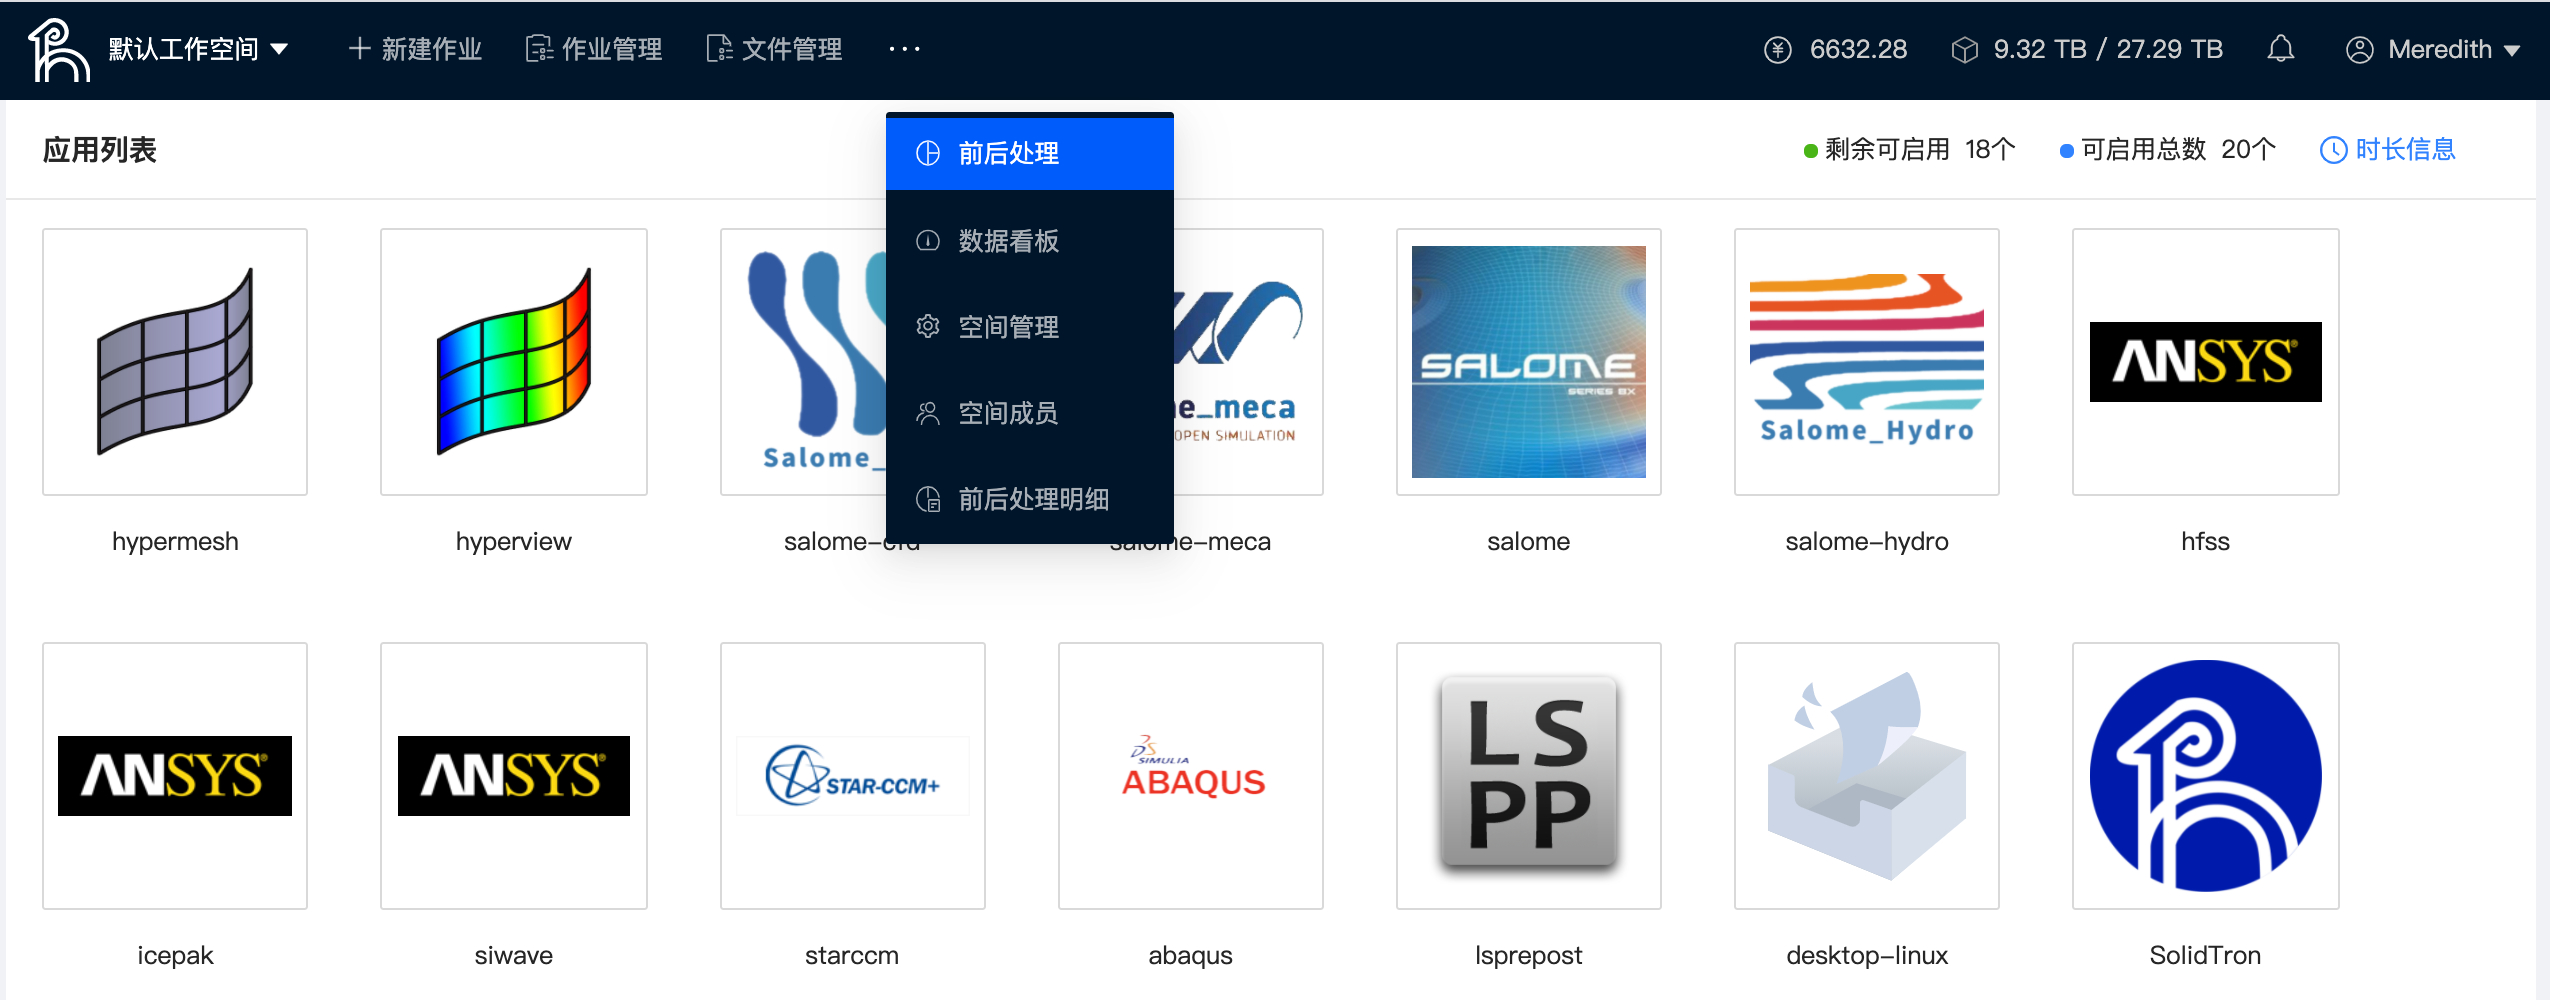
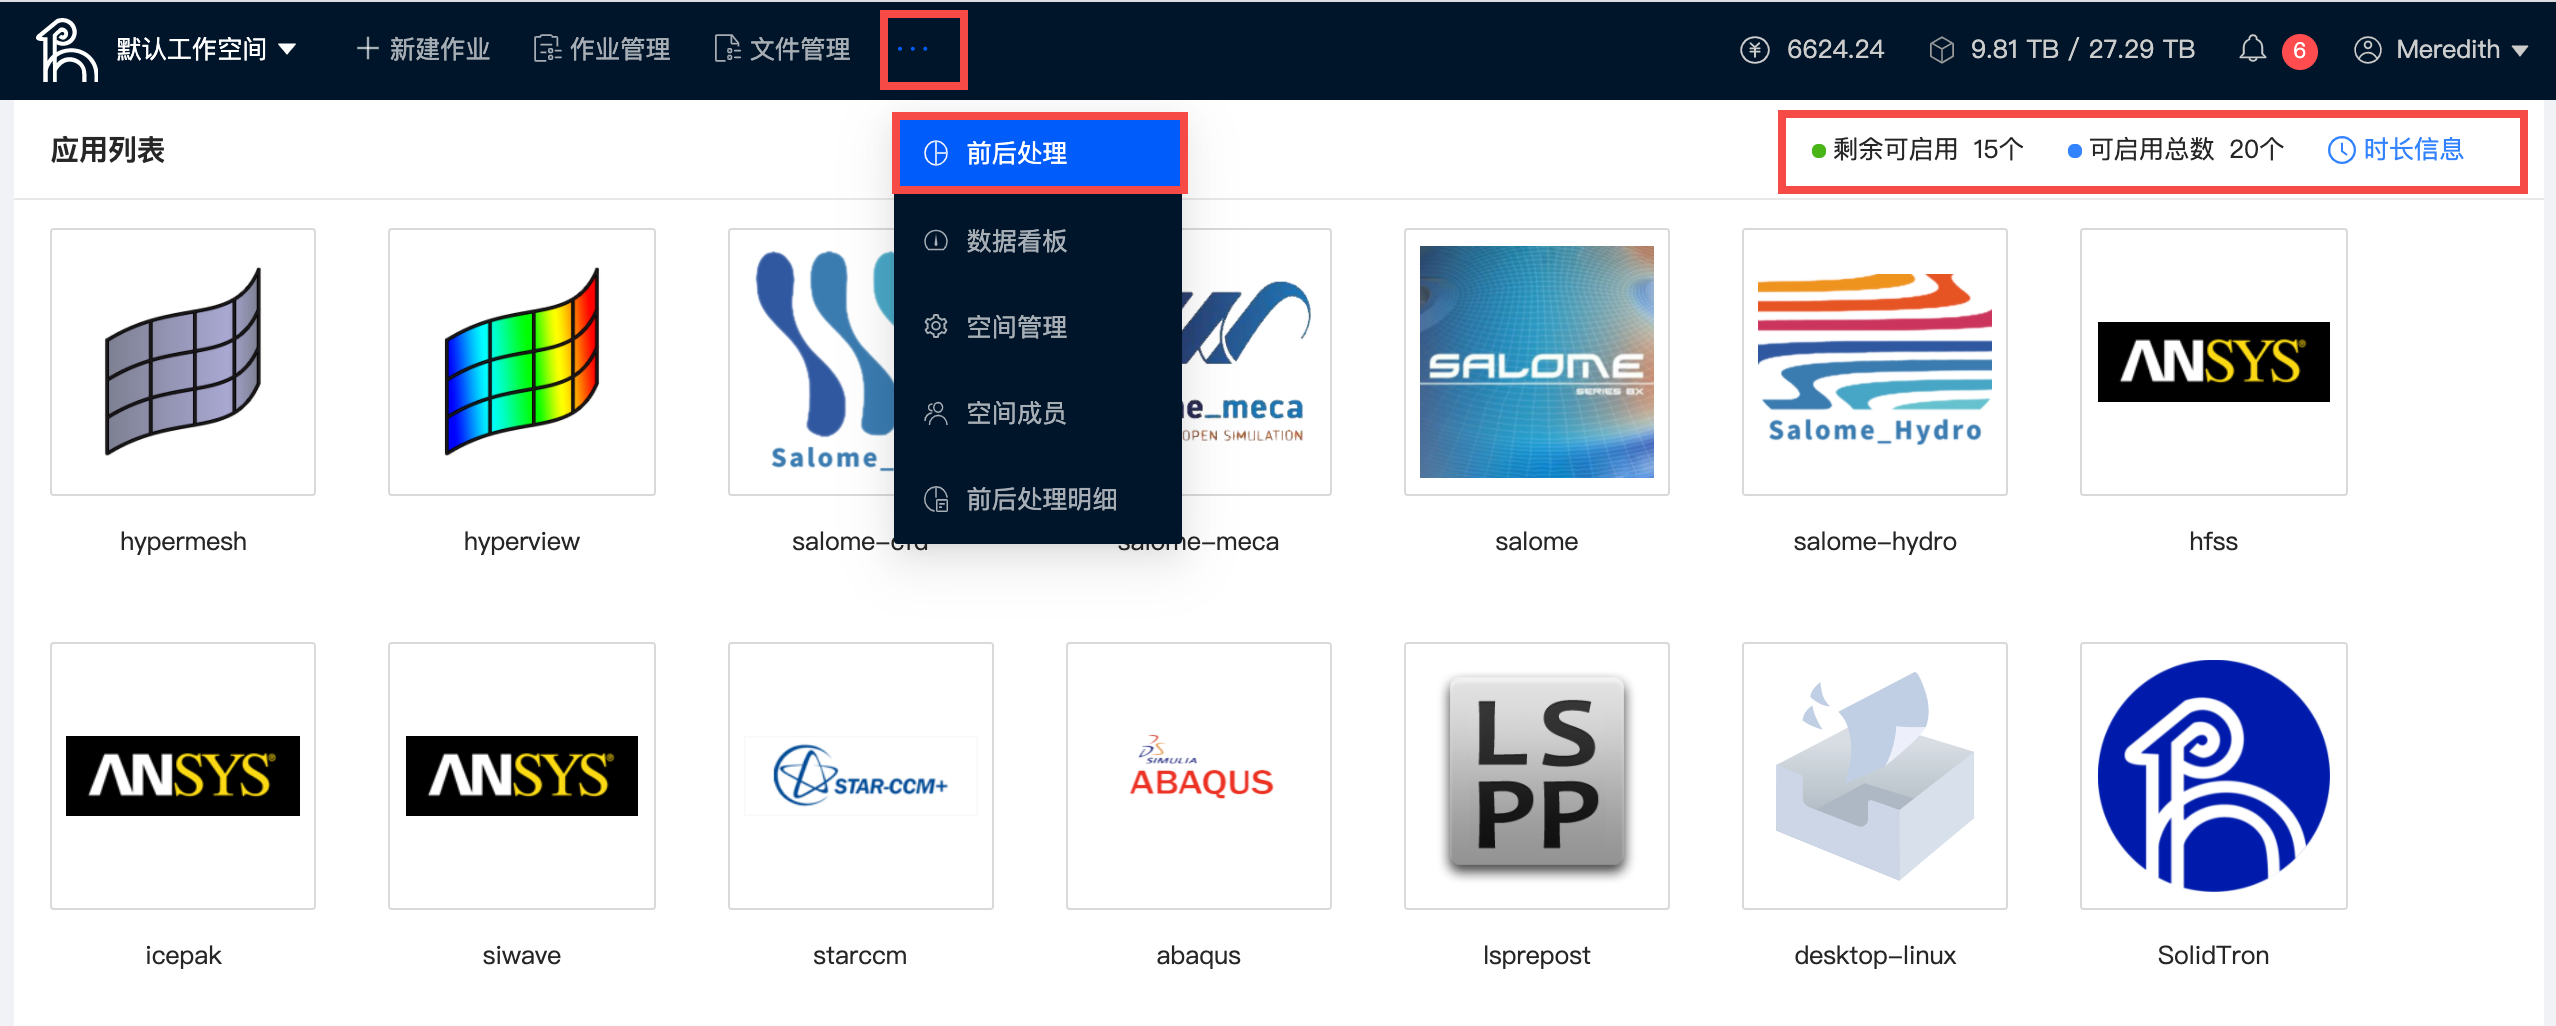
add content

diff --git a/src/kaiwu-handbook/docs/prePost.md b/src/kaiwu-handbook/docs/prePost.md
@@ -5,16 +5,49 @@ sidebar_label: 前后处理
 
 ## 软件列表
 平台提供各仿真软件的在线使用方式，无需安装，只需浏览器打开即可像在本地一样创建模型和前处理、后处理。
+
+### 应用列表
 ![前后处理-应用列表](/img/prepost01.png)
+其中，在应用列表的右上角提示--剩余可启用的终端数、可启用总的终端数。
+
+********************************************  
+
+### 软件使用
+说明：前后处理的文件需要提前保存至文件管理。
+
+&nbsp; &nbsp; &nbsp; &nbsp; &nbsp; &nbsp;在使用前后处理的软件时，打开workspace即可查看到之前保存的文件。
+
+#### 简单演示hypermash的使用：
+
+1. 点击要使用的软件
+![前后处理-点击软件](/img/prepost12.png)
+
+2. 点击 Import Solver Deck 
+![前后处理-点击Import Solver Deck](/img/prepost06.png)
+
+3. 在File selection中，选择 File Type，选择要处理的 File 
+![前后处理-选择filetype](/img/prepost07.png)
+
+&nbsp; &nbsp; &nbsp; &nbsp; 注意：前后处理中的文件都保存在 workspace 中，打开worksapce，
+![前后处理-选择File](/img/prepost08.png)
+
+4. 打开提前保存到“文件管理”中的文件
+![前后处理-打worksapce](/img/prepost09.png)
+
+5. 点击 import
+![前后处理-点击import](/img/prepost10.png)
+
+6. 等待加载完毕，即可在线使用
+![前后处理-加载完毕](/img/prepost04.png)
+
+7. 使用结束，点击关闭
+
+![前后处理-关闭](/img/prepost11.png)
 &nbsp;  
 &nbsp;  
 ********************************************  
 
-点击软件图标即可打开使用前后处理软件
-![前后处理-在线使用](/img/prepost04.png)
-&nbsp;  
-&nbsp;  
-********************************************  
+
 
 ## 已打开应用
 展示已经打开的应用，关闭浏览器并不会退出软件界面。通过小视窗可重新打开。使用完毕，需点击“退出”按钮来彻底关闭在线软件，否则将会一直消耗时长和费用。

diff --git a/src/kaiwu-handbook/docs/jobManagement.md b/src/kaiwu-handbook/docs/jobManagement.md
@@ -9,6 +9,8 @@ sidebar_label: 作业管理
 ![作业管理-筛选作业](/img/jobmanagement00.png)
 &nbsp;  
 &nbsp;  
+
+其中，作业状态包括四种：运行中、已成功、出错、取消。
 ********************************************  
 
 ## 管理作业
@@ -27,6 +29,30 @@ sidebar_label: 作业管理
 ### 删除作业
 选中要删除的作业，点击删除。平台不建议用户删除作业，这会导致统计数据和账单数据与实际消耗不一致。
 ![作业管理-删除作业](/img/jobmanagement06.png)
+
+********************************************  
+
+### 取消作业
+取消单个作业。
+![作业管理-取消作业](/img/jobmanagement11.png)
+
+********************************************  
+
+取消批量作业：选择要取消的作业，点击取消。
+![作业管理-取消作业](/img/jobmanagement15.png)
+********************************************  
+
+### 回传启停
+
+作业「回传启停」的控制，便于用户查看优先级高的作业。
+
+![作业管理-回传启停](/img/jobmanagement12.png)
+********************************************  
+
+### 申请帮助
+用户针对有疑问的作业可以在“操作”中点击“申请帮助”，通过描述问题和选择日志文件，获取相关的技术支持。
+![作业管理-申请帮助](/img/jobmanagement13.png)
+![作业管理-申请帮助](/img/jobmanagement14.png)
 &nbsp;  
 &nbsp;  
 ********************************************  

diff --git a/src/kaiwu-handbook/docs/orgManagement.md b/src/kaiwu-handbook/docs/orgManagement.md
@@ -25,15 +25,25 @@ sidebar_label: 企业管理
 ******************************************** 
 
 ### 前后处理明细
+在前后处理明细中，可以查看前后处理的详细信息。
 
+平台支持通过编号、使用人、商品、状态、开始时间对使用明细进行筛选，支持使用明细导出为.xlsx文件保存至本地。
+![企业管理-前后处理明细](/img/orgmanagement15.png)
+
+******************************************** 
 
 ### 成员管理
 企业管理员可以对企业成员进行邀请、搜索、删除、设置角色等操作。
 
-其中，企业成员角色包括：管理员、普通用户、外协角色。普通用户无企业管理权限，外协角色仅能上传文件
+其中，企业成员角色包括：管理员、普通用户、外协人员。普通用户无企业管理权限，外协人员仅能上传文件，无提交作业的权限。
 
 ![企业管理-成员管理](/img/orgmanagement05.png)
 
+******************************************** 
+#### 消费限额
+平台支持企业管理员设置成员每月的消费限额。选择要设置的成员，点击设置，在弹窗中填写每月消费限额，点击确认。
+![企业管理-成员消费限额](/img/orgmanagement13.png)
+![企业管理-成员消费限额](/img/orgmanagement14.png)
 ******************************************** 
 
 ### 邀请列表
